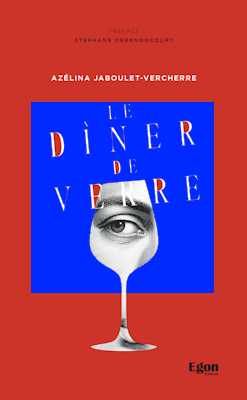
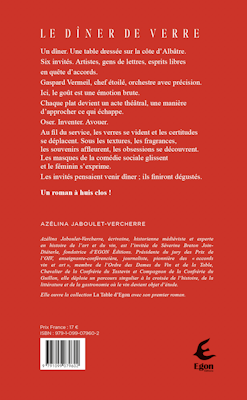
@Paris [EVO] Added back cover in carousel in Egon Éditions page

diff --git a/src/components/Shop.js b/src/components/Shop.js
@@ -12,7 +12,12 @@ import azelina1 from '../assets/images/shop/azelina_190.png';
 import azelina2 from '../assets/images/shop/azelina_379.png';
 import azelina3 from '../assets/images/shop/azelina_569.png';
 import azelina4 from '../assets/images/shop/azelina_758.png';
-import bookCover from '../assets/images/shop/book-cover_247.png';
+import bookBackCover247 from '../assets/images/shop/book-back-cover_247.png';
+import bookBackCover494 from '../assets/images/shop/book-back-cover_494.png';
+import bookBackCover740 from '../assets/images/shop/book-back-cover_740.png';
+import bookCover247 from '../assets/images/shop/book-cover_247.png';
+import bookCover494 from '../assets/images/shop/book-cover_494.png';
+import bookCover740 from '../assets/images/shop/book-cover_740.png';
 import clsx from 'clsx';
 import { useSelector } from 'react-redux';
 
@@ -37,7 +42,10 @@ const Shop = (): React.Node => {
     setCurrentIndex(index);
   }, []);
 
-  const covers = [bookCover];
+  const covers = [
+    { q1: bookCover247, q2: bookCover494, q3: bookCover740 },
+    { q1: bookBackCover247, q2: bookBackCover494, q3: bookBackCover740 }
+  ];
 
   return (
     <div
@@ -92,8 +100,11 @@ const Shop = (): React.Node => {
                 <img
                   alt=''
                   className={clsx('book-cover__image', index === currentIndex && 'visible')}
+                  height={400}
                   key={`cover-img-${index}`}
-                  src={cover} />
+                  src={cover.q1}
+                  srcSet={`${cover.q1} 1x, ${cover.q2} 2x, ${cover.q3} 3x`}
+                  width={247} />
               ))}
             </div>
             <div className='book-cover__carousel'>

diff --git a/src/components/Shop.scss b/src/components/Shop.scss
@@ -116,9 +116,10 @@
 
             .book-cover__image {
               grid-area: 1 / 1;
+              height: 400px;
               opacity: 0%;
               transition: opacity var(--medium-transition) ease-in-out;
-              width: 100%;
+              width: 247px;
 
               &.visible {
                 opacity: 100%;
